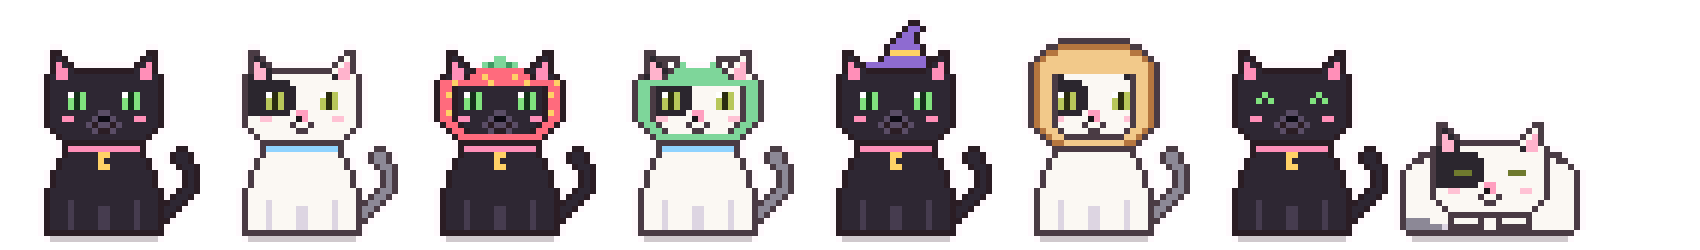
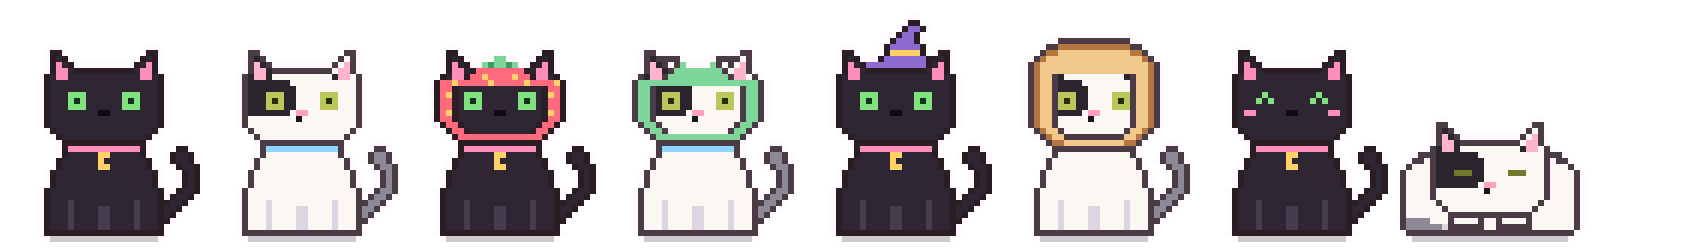
Pixel cats: simpler faces that emote with their eyes; tiny background walker and pixel duo on the site

diff --git a/docs/pixel-sprites.js b/docs/pixel-sprites.js
@@ -2,7 +2,7 @@
 // pick a frame from the cat's live state. Used by renderer/cat.js (window.LoonPixel) and test/pixel.test.js.
 //
 // Maps use semantic characters, so one set of frames serves every character (Luna, Soju):
-//   k fur · s fur shade (inner lines) · O outline/rim · u muzzle fur · e eye · P pupil (vertical slit) · E closed-eye line · w shine
+//   k fur · s fur shade (inner lines) · O outline/rim · u muzzle fur · e eye · P pupil · W wide-eye ring · E closed-eye line · w shine
 //   n nose · i inner ear · p paw pad · c collar · m pendant · t tail fur · r open mouth · x marking (patch)
 //   f freckle · l/L lock and keyboard lavender · M/y pendant glow (added in code)
 //   '.' keeps what is underneath, '_' erases to transparent.
@@ -25,10 +25,10 @@
     'OkkkkkkkkkkkkkkkkkkO',
     'OkkkkkkkkkkkkkkkkkkO',
     'OkkkkkkkkkkkkkkkkkkO',
-    'OkkkkkkkkuukkkkkkkkO',
-    'OkkbbkkkunnukkkbbkkO',
-    'OkkkkkkuOuuOukkkkkkO',
-    '.OkkkkkkuOOukkkkkkO.',
+    'OkkkkkkkknnkkkkkkkkO',
+    'OkkkkkkkkkkkkkkkkkkO',
+    'OkkkkkkkkkkkkkkkkkkO',
+    '.OkkkkkkkkkkkkkkkkO.',
     '..OkkkkkkkkkkkkkkO..',
     '...OOOOOOOOOOOOOO...',
   ];
@@ -55,15 +55,16 @@
   const EYE_R = [13, 7];
   const MOUTH = [8, 12]; // head-relative 4×2 ":3" glyph under the nose; expressions swap the glyph in place
 
-  // Eyes keep their 3×3 box: a vertical slit pupil that slides with the gaze, a fixed-corner shine, or the box
-  // becomes a closed line / squint.
+  // The eyes do all the emoting (the face is otherwise just a tiny nose): a ring eye whose dark pupil slides with
+  // the gaze, a flat half-lid for judging, big white rings for surprise, lines for sleepy, ^ ^ for happy.
   const EYES = {
-    center: ['wPe', 'ePe', 'ePe'],
-    left: ['Pwe', 'Pee', 'Pee'],
-    right: ['weP', 'eeP', 'eeP'],
-    up: ['wPe', 'ePe', 'eee'],
-    down: ['wee', 'ePe', 'ePe'],
-    half: ['kkk', 'wPe', 'ePe'],
+    center: ['eee', 'ePe', 'eee'],
+    left: ['eee', 'Pee', 'eee'],
+    right: ['eee', 'eeP', 'eee'],
+    up: ['ePe', 'eee', 'eee'],
+    down: ['eee', 'eee', 'ePe'],
+    half: ['...', 'EEE', 'ePe'],
+    wide: ['WWW', 'WPW', 'WWW'],
     closed: ['...', 'EEE', '...'],
     happy: ['.E.', 'E.E', '...'],
   };
@@ -251,7 +252,7 @@
   const CHARACTERS = {
     luna: {
       name: 'Luna',
-      colors: { k: '#2e2733', s: '#463c4f', O: '#2b1d24', u: '#5a4d66', e: '#80e27e', P: '#14301a', E: '#80e27e', w: '#ffffff', n: '#0e0b14', b: '#ff8fb8', i: '#ff8fb8', p: '#ff8fb8', c: '#ff8fb8', m: '#ffd166', t: '#2e2733', r: '#ff6f9f', x: '#2e2733', f: '#0e0b14' },
+      colors: { k: '#2e2733', s: '#463c4f', O: '#2b1d24', u: '#5a4d66', e: '#80e27e', P: '#14301a', E: '#80e27e', w: '#ffffff', W: '#ffffff', n: '#0e0b14', b: '#ff8fb8', i: '#ff8fb8', p: '#ff8fb8', c: '#ff8fb8', m: '#ffd166', t: '#2e2733', r: '#ff6f9f', x: '#2e2733', f: '#0e0b14' },
       marks: [],
       animations: {},
     },
@@ -260,7 +261,7 @@
     soju: {
       name: 'Soju',
       pendant: false, // the moon pendant is Luna's; Soju just wears the collar
-      colors: { k: '#fbf8f3', s: '#ddd5e2', O: '#4a3b44', u: '#fbf8f3', e: '#b8c75a', P: '#2a2c10', E: '#6f7a2e', w: '#ffffff', n: '#ff9fbf', b: '#ffc2d4', i: '#ffb3cc', p: '#ffb3cc', c: '#8fd3ff', m: '#ffd166', t: '#8c8896', r: '#e0607f', x: '#2b262e', f: '#1a1418' },
+      colors: { k: '#fbf8f3', s: '#ddd5e2', O: '#4a3b44', u: '#fbf8f3', e: '#b8c75a', P: '#2a2c10', E: '#6f7a2e', w: '#ffffff', W: '#4a3b44', n: '#ff9fbf', b: '#ffc2d4', i: '#ffb3cc', p: '#ffb3cc', c: '#8fd3ff', m: '#ffd166', t: '#8c8896', r: '#e0607f', x: '#2b262e', f: '#1a1418' },
       marks: [{
         on: 'head', x: 0, y: 0, only: 'kbufn', map: [
           '....................',
@@ -392,8 +393,9 @@
     return 'center';
   }
 
-  function eyeFor(v, lid, gaze) {
+  function eyeFor(v, lid, gaze, pose) {
     if (v.happy > 0.5) return EYES.happy;
+    if (pose === 'startled' || v.mood === 'wide') return EYES.wide;
     if (lid > 0.85) return EYES.closed;
     if (lid > 0.4) return EYES.half;
     return EYES[gaze];
@@ -462,12 +464,14 @@
     const groomUp = pose === 'groom' && tick(320, 2) === 0;
     const gaze = pose === 'busy' ? 'down' : lookDir(v.look);
     const groomEyes = pose === 'groom' ? 1 : null;
-    put(eyeFor(v, groomEyes ?? v.lidL, gaze), HEAD_X + EYE_L[0], headY + EYE_L[1]);
-    put(eyeFor(v, groomEyes ?? v.lidR, gaze), HEAD_X + EYE_R[0], headY + EYE_R[1]);
-    const pop = v.mouth === 'open' || v.fidget === 'yawn' || pose === 'startled';
-    const flat = ['judgy', 'suspicious', 'focused', 'protective', 'confused'].includes(v.mood);
-    if (pop) put(MOUTHS.pop, HEAD_X + MOUTH[0], headY + MOUTH[1]);
-    else if (flat) put(MOUTHS.flat, HEAD_X + MOUTH[0], headY + MOUTH[1]);
+    const judging = ['judgy', 'suspicious', 'focused', 'protective', 'confused'].includes(v.mood);
+    const lidL = groomEyes ?? (judging ? Math.max(v.lidL, 0.5) : v.lidL);
+    const lidR = groomEyes ?? (judging ? Math.max(v.lidR, 0.5) : v.lidR);
+    put(eyeFor(v, lidL, gaze, pose), HEAD_X + EYE_L[0], headY + EYE_L[1]);
+    put(eyeFor(v, lidR, gaze, pose), HEAD_X + EYE_R[0], headY + EYE_R[1]);
+    if (v.happy > 0.5) { put(['bb'], HEAD_X + 2, headY + 10); put(['bb'], HEAD_X + 16, headY + 10); }
+    // no mouth at rest; it only opens to talk, yawn, eat or gasp
+    if (v.mouth === 'open' || v.fidget === 'yawn' || pose === 'startled') put(MOUTHS.pop, HEAD_X + MOUTH[0], headY + MOUTH[1]);
     if (v.twitchL > 6) put(EAR_TWITCH_L, HEAD_X, headY);
     if (v.twitchR > 6) put(EAR_TWITCH_R, HEAD_X + 15, headY);
     for (const mark of character.marks) if (mark.on === 'head') put(mark.map, HEAD_X + mark.x, headY + mark.y, mark.only);

diff --git a/renderer/pixel-sprites.js b/renderer/pixel-sprites.js
@@ -2,7 +2,7 @@
 // pick a frame from the cat's live state. Used by renderer/cat.js (window.LoonPixel) and test/pixel.test.js.
 //
 // Maps use semantic characters, so one set of frames serves every character (Luna, Soju):
-//   k fur · s fur shade (inner lines) · O outline/rim · u muzzle fur · e eye · P pupil (vertical slit) · E closed-eye line · w shine
+//   k fur · s fur shade (inner lines) · O outline/rim · u muzzle fur · e eye · P pupil · W wide-eye ring · E closed-eye line · w shine
 //   n nose · i inner ear · p paw pad · c collar · m pendant · t tail fur · r open mouth · x marking (patch)
 //   f freckle · l/L lock and keyboard lavender · M/y pendant glow (added in code)
 //   '.' keeps what is underneath, '_' erases to transparent.
@@ -25,10 +25,10 @@
     'OkkkkkkkkkkkkkkkkkkO',
     'OkkkkkkkkkkkkkkkkkkO',
     'OkkkkkkkkkkkkkkkkkkO',
-    'OkkkkkkkkuukkkkkkkkO',
-    'OkkbbkkkunnukkkbbkkO',
-    'OkkkkkkuOuuOukkkkkkO',
-    '.OkkkkkkuOOukkkkkkO.',
+    'OkkkkkkkknnkkkkkkkkO',
+    'OkkkkkkkkkkkkkkkkkkO',
+    'OkkkkkkkkkkkkkkkkkkO',
+    '.OkkkkkkkkkkkkkkkkO.',
     '..OkkkkkkkkkkkkkkO..',
     '...OOOOOOOOOOOOOO...',
   ];
@@ -55,15 +55,16 @@
   const EYE_R = [13, 7];
   const MOUTH = [8, 12]; // head-relative 4×2 ":3" glyph under the nose; expressions swap the glyph in place
 
-  // Eyes keep their 3×3 box: a vertical slit pupil that slides with the gaze, a fixed-corner shine, or the box
-  // becomes a closed line / squint.
+  // The eyes do all the emoting (the face is otherwise just a tiny nose): a ring eye whose dark pupil slides with
+  // the gaze, a flat half-lid for judging, big white rings for surprise, lines for sleepy, ^ ^ for happy.
   const EYES = {
-    center: ['wPe', 'ePe', 'ePe'],
-    left: ['Pwe', 'Pee', 'Pee'],
-    right: ['weP', 'eeP', 'eeP'],
-    up: ['wPe', 'ePe', 'eee'],
-    down: ['wee', 'ePe', 'ePe'],
-    half: ['kkk', 'wPe', 'ePe'],
+    center: ['eee', 'ePe', 'eee'],
+    left: ['eee', 'Pee', 'eee'],
+    right: ['eee', 'eeP', 'eee'],
+    up: ['ePe', 'eee', 'eee'],
+    down: ['eee', 'eee', 'ePe'],
+    half: ['...', 'EEE', 'ePe'],
+    wide: ['WWW', 'WPW', 'WWW'],
     closed: ['...', 'EEE', '...'],
     happy: ['.E.', 'E.E', '...'],
   };
@@ -251,7 +252,7 @@
   const CHARACTERS = {
     luna: {
       name: 'Luna',
-      colors: { k: '#2e2733', s: '#463c4f', O: '#2b1d24', u: '#5a4d66', e: '#80e27e', P: '#14301a', E: '#80e27e', w: '#ffffff', n: '#0e0b14', b: '#ff8fb8', i: '#ff8fb8', p: '#ff8fb8', c: '#ff8fb8', m: '#ffd166', t: '#2e2733', r: '#ff6f9f', x: '#2e2733', f: '#0e0b14' },
+      colors: { k: '#2e2733', s: '#463c4f', O: '#2b1d24', u: '#5a4d66', e: '#80e27e', P: '#14301a', E: '#80e27e', w: '#ffffff', W: '#ffffff', n: '#0e0b14', b: '#ff8fb8', i: '#ff8fb8', p: '#ff8fb8', c: '#ff8fb8', m: '#ffd166', t: '#2e2733', r: '#ff6f9f', x: '#2e2733', f: '#0e0b14' },
       marks: [],
       animations: {},
     },
@@ -260,7 +261,7 @@
     soju: {
       name: 'Soju',
       pendant: false, // the moon pendant is Luna's; Soju just wears the collar
-      colors: { k: '#fbf8f3', s: '#ddd5e2', O: '#4a3b44', u: '#fbf8f3', e: '#b8c75a', P: '#2a2c10', E: '#6f7a2e', w: '#ffffff', n: '#ff9fbf', b: '#ffc2d4', i: '#ffb3cc', p: '#ffb3cc', c: '#8fd3ff', m: '#ffd166', t: '#8c8896', r: '#e0607f', x: '#2b262e', f: '#1a1418' },
+      colors: { k: '#fbf8f3', s: '#ddd5e2', O: '#4a3b44', u: '#fbf8f3', e: '#b8c75a', P: '#2a2c10', E: '#6f7a2e', w: '#ffffff', W: '#4a3b44', n: '#ff9fbf', b: '#ffc2d4', i: '#ffb3cc', p: '#ffb3cc', c: '#8fd3ff', m: '#ffd166', t: '#8c8896', r: '#e0607f', x: '#2b262e', f: '#1a1418' },
       marks: [{
         on: 'head', x: 0, y: 0, only: 'kbufn', map: [
           '....................',
@@ -392,8 +393,9 @@
     return 'center';
   }
 
-  function eyeFor(v, lid, gaze) {
+  function eyeFor(v, lid, gaze, pose) {
     if (v.happy > 0.5) return EYES.happy;
+    if (pose === 'startled' || v.mood === 'wide') return EYES.wide;
     if (lid > 0.85) return EYES.closed;
     if (lid > 0.4) return EYES.half;
     return EYES[gaze];
@@ -462,12 +464,14 @@
     const groomUp = pose === 'groom' && tick(320, 2) === 0;
     const gaze = pose === 'busy' ? 'down' : lookDir(v.look);
     const groomEyes = pose === 'groom' ? 1 : null;
-    put(eyeFor(v, groomEyes ?? v.lidL, gaze), HEAD_X + EYE_L[0], headY + EYE_L[1]);
-    put(eyeFor(v, groomEyes ?? v.lidR, gaze), HEAD_X + EYE_R[0], headY + EYE_R[1]);
-    const pop = v.mouth === 'open' || v.fidget === 'yawn' || pose === 'startled';
-    const flat = ['judgy', 'suspicious', 'focused', 'protective', 'confused'].includes(v.mood);
-    if (pop) put(MOUTHS.pop, HEAD_X + MOUTH[0], headY + MOUTH[1]);
-    else if (flat) put(MOUTHS.flat, HEAD_X + MOUTH[0], headY + MOUTH[1]);
+    const judging = ['judgy', 'suspicious', 'focused', 'protective', 'confused'].includes(v.mood);
+    const lidL = groomEyes ?? (judging ? Math.max(v.lidL, 0.5) : v.lidL);
+    const lidR = groomEyes ?? (judging ? Math.max(v.lidR, 0.5) : v.lidR);
+    put(eyeFor(v, lidL, gaze, pose), HEAD_X + EYE_L[0], headY + EYE_L[1]);
+    put(eyeFor(v, lidR, gaze, pose), HEAD_X + EYE_R[0], headY + EYE_R[1]);
+    if (v.happy > 0.5) { put(['bb'], HEAD_X + 2, headY + 10); put(['bb'], HEAD_X + 16, headY + 10); }
+    // no mouth at rest; it only opens to talk, yawn, eat or gasp
+    if (v.mouth === 'open' || v.fidget === 'yawn' || pose === 'startled') put(MOUTHS.pop, HEAD_X + MOUTH[0], headY + MOUTH[1]);
     if (v.twitchL > 6) put(EAR_TWITCH_L, HEAD_X, headY);
     if (v.twitchR > 6) put(EAR_TWITCH_R, HEAD_X + 15, headY);
     for (const mark of character.marks) if (mark.on === 'head') put(mark.map, HEAD_X + mark.x, headY + mark.y, mark.only);

diff --git a/docs/index.html b/docs/index.html
@@ -148,7 +148,8 @@ h2 { font-size: clamp(17px, 3vw, 24px); line-height: 1.5; margin: 0 0 10px; }
 
 /* ---------- gif + quick start ---------- */
 .gifbox { text-align: center; }
-.gifbox img { width: 240px; max-width: 70vw; border: 3px solid var(--border); border-radius: 18px; box-shadow: var(--shadow); background: var(--lav-soft); }
+.gifbox .duo { display: inline-flex; gap: 6px; padding: 14px 18px 8px; border: 3px solid var(--border); border-radius: 18px; box-shadow: var(--shadow); background: var(--lav-soft); }
+.gifbox canvas { image-rendering: pixelated; }
 .term { background: #1f1b29; color: #f6eefc; border: 3px solid var(--border); border-radius: 16px; box-shadow: var(--shadow); overflow: hidden; }
 .term .bar { display: flex; gap: 8px; padding: 10px 14px; background: #2d2640; }
 .term .bar i { width: 12px; height: 12px; border-radius: 50%; display: block; }
@@ -165,7 +166,7 @@ code { background: var(--lav-soft); padding: 1px 6px; border-radius: 6px; font-s
 /* ---------- footer + walker ---------- */
 footer { border-top: 3px solid var(--border); padding: 30px 0 90px; text-align: center; color: var(--muted); font-size: 15px; }
 footer .px { font-size: 11px; color: var(--ink); }
-.walker { position: fixed; bottom: 4px; left: -80px; width: 64px; height: 78px; z-index: 20; pointer-events: none; image-rendering: pixelated; animation: walk 26s linear infinite; }
+.walker { position: fixed; bottom: 6px; left: -80px; width: 28px; height: 16px; z-index: 0; opacity: .7; pointer-events: none; image-rendering: pixelated; animation: walk 60s linear infinite; }
 @keyframes walk { 0% { left: -80px; transform: scaleX(1); } 49% { left: calc(100vw + 10px); transform: scaleX(1); } 50% { left: calc(100vw + 10px); transform: scaleX(-1); } 99% { left: -80px; transform: scaleX(-1); } 100% { left: -80px; transform: scaleX(1); } }
 @media (prefers-reduced-motion: reduce) { .walker, .spark, .bubble .caret { animation: none; } .walker { display: none; } }
 </style>
@@ -298,7 +299,7 @@ footer .px { font-size: 11px; color: var(--ink); }
           <li>Right-click the cat → <b>Pair browser…</b> and paste the code into the extension.</li>
           <li>Highlight something. Watch the ears perk up.</li>
         </ol>
-        <div class="gifbox" style="margin-top:22px"><img src="loon.gif" alt="The real Loon: follows the cursor, squints while petted, thinks, and does moon magic"></div>
+        <div class="gifbox" style="margin-top:22px"><div class="duo" role="img" aria-label="Pixel Luna and Soju sitting side by side, blinking"><canvas id="duoLuna"></canvas><canvas id="duoSoju"></canvas></div></div>
       </div>
     </div>
   </div>
@@ -340,6 +341,8 @@ const pals = ['luna', 'soju'].map((who) => {
   return { who, canvas };
 });
 const closet = document.getElementById('closet');
+const duoLuna = document.getElementById('duoLuna');
+const duoSoju = document.getElementById('duoSoju');
 const looks = [['luna', 'strawberry', 'Strawberry hood'], ['soju', 'frog', 'Frog hood'], ['luna', 'witch', 'Witch hat'], ['soju', 'bread', 'Bread loaf'], ['luna', 'sunglasses', 'Sunglasses']]
   .map(([who, costume, name]) => {
     const fig = document.createElement('figure');
@@ -354,6 +357,8 @@ function draw() {
   paint(cat, petted ? { now: tick * 250, state: 'petted', mood: 'happy', happy: 1 } : idle(), 'luna', 7);
   for (const { who, canvas } of pals) paint(canvas, idle({ costume: COSTUMES[wearing[who]] }), who, 4);
   for (const { who, costume, canvas } of looks) paint(canvas, idle({ costume }), who, 3);
+  paint(duoLuna, idle(), 'luna', 4);
+  paint(duoSoju, idle(tick % 24 === 7 ? { look: { x: -5, y: 0 } } : {}), 'soju', 4);
 }
 draw();
 if (!still) setInterval(() => { tick++; draw(); }, 250);
@@ -405,11 +410,24 @@ function burst() {
   }
 }
 
-// Little cat walking along the bottom of the page.
+// A tiny, low-detail cat strolling along the bottom edge: background charm, not a distraction.
 const walker = document.getElementById('walker');
+const STROLL = [
+  ['...........k.k', '...........kkk', 'k..........kgk', '.k.........kkk', '..kkkkkkkkkkk.', '..kkkkkkkkkk..', '..k.k.....k.k.', '..k..k...k..k.'],
+  ['...........k.k', '...........kkk', 'k..........kgk', '.k.........kkk', '..kkkkkkkkkkk.', '..kkkkkkkkkk..', '...kk.....kk..', '...kk.....kk..'],
+];
+function stroll(frame) {
+  const g = walker.getContext('2d');
+  walker.width = 28; walker.height = 16;
+  STROLL[frame].forEach((row, y) => [...row].forEach((c, x) => {
+    if (c === '.') return;
+    g.fillStyle = c === 'g' ? '#80e27e' : '#2e2733';
+    g.fillRect(x * 2, y * 2, 2, 2);
+  }));
+}
 let step = 0;
-paint(walker, { travel: 'walk', now: 0 }, 'luna', 4);
-if (!still) setInterval(() => { step++; paint(walker, { travel: 'walk', now: step * 160 }, 'luna', 4); }, 160);
+stroll(0);
+if (!still) setInterval(() => { step = 1 - step; stroll(step); }, 400);
 
 // Theme toggle, remembered per visitor.
 const root = document.documentElement;
